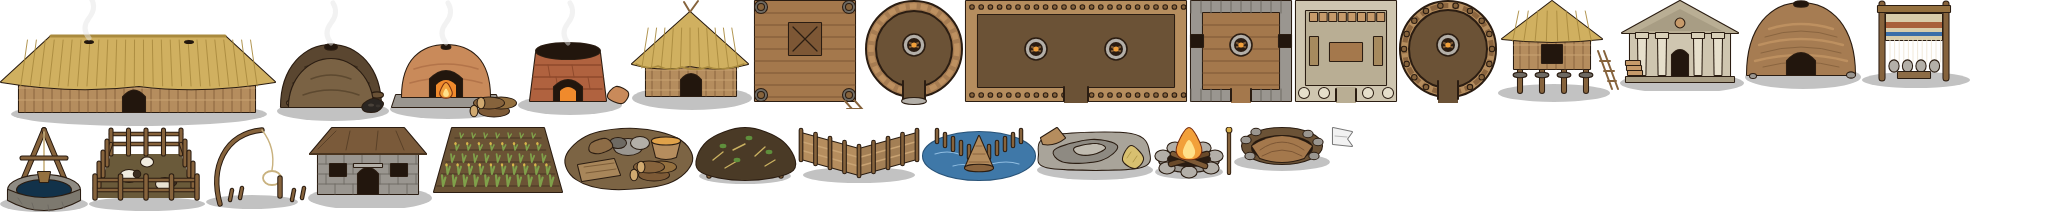
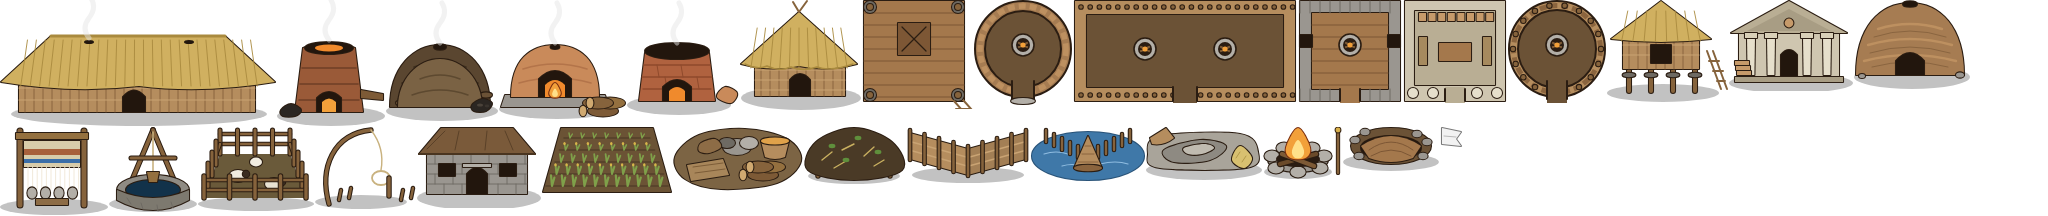
m15: fase 37d — smelting, el horno de fundicion y el primer lingote
Nodo smelting (native_copper + charcoal + kiln), estacion furnace, item copper y
receta smelt_copper (3 mineral + 2 carbon -> 2 lingotes, smith). El planificador
levanta el horno solo; wantedOreKinds manda al herrero a la veta. La sub-red Metal
se abre en 37e (una red de un nodo es una puerta sin contenido). Arte: horno e
icono. Medido: metal.test.ts 36 pruebas; cohorte diferida.

diff --git a/src/sim/__tests__/metal.test.ts b/src/sim/__tests__/metal.test.ts
@@ -464,3 +464,84 @@ describe('mining', () => {
     expect(wantedOreKinds(miner)).toEqual([]);
   });
 });
+
+describe('smelting and the furnace', () => {
+  it('needs native copper, charcoal and the kiln, and is a device of the Chalcolithic', () => {
+    const def = TECH.smelting;
+    expect(def.requires).toEqual(['native_copper', 'charcoal', 'kiln']);
+    expect(def.kind).toBe('device');
+    expect(def.domain).toBe('metal');
+    for (const required of def.requires) {
+      expect(ageIndex(def.age)).toBeGreaterThanOrEqual(ageIndex(TECH[required].age));
+    }
+  });
+
+  it('is a station only the knowing may raise, built of flint and clay like the kiln', () => {
+    const furnace = BUILDINGS.furnace!;
+    expect(isStation(furnace)).toBe(true);
+    expect(furnace.requiresTech).toBe('smelting');
+    expect(furnace.storage).toBe(0);
+    expect(Object.keys(furnace.materials).sort()).toEqual(['flint', 'mud']);
+    // More than the kiln it is the pivot from.
+    expect(furnace.workTicks).toBeGreaterThan(BUILDINGS.kiln!.workTicks);
+  });
+
+  it('turns ore and charcoal into ingots at the furnace and nowhere else', () => {
+    const recipe = RECIPES.smelt_copper!;
+    expect(recipe.station).toBe('furnace');
+    expect(recipe.tech).toBe('smelting');
+    expect(recipe.skill).toBe('smith');
+    expect(recipe.ingredients).toEqual({ copper_ore: 3, charcoal: 2 });
+    expect(recipe.output).toEqual({ copper: 2 });
+    expect(ITEMS.copper!.baseValue).toBeGreaterThan(ITEMS.copper_ore!.baseValue);
+  });
+
+  it('sends the smith to the seam, and a smith with enough ore nowhere', () => {
+    const smith = adult('smith');
+    teach(smith, 'mining', 'smelting');
+    expect(wantedOreKinds(smith)).toContain('copper_ore');
+    smith.inventory.add('copper_ore', 3);
+    expect(wantedOreKinds(smith)).not.toContain('copper_ore');
+    // Four ingots are all the smith keeps; past that there is nothing to want.
+    smith.inventory.remove('copper_ore', 3);
+    smith.inventory.add('copper', 4);
+    expect(wantedOreKinds(smith)).not.toContain('copper_ore');
+    // Without the technique to dig it, the seam is not wanted however much is needed.
+    const heir = adult('heir');
+    teach(heir, 'smelting');
+    expect(wantedOreKinds(heir)).not.toContain('copper_ore');
+  });
+
+  it('smelts at the furnace end to end', () => {
+    const sim = worldKnowing(['firemaking', 'carpentry', 'charcoal', 'smelting']);
+    const person = sim.livingPeople()[0]!;
+    settle(person);
+    person.inventory.add('copper_ore', 3);
+    person.inventory.add('charcoal', 2);
+    const furnace = stationNear(sim, person, 'furnace');
+    expect(sim.order(person, 'craft', { recipeId: 'smelt_copper', buildingId: furnace.id })).toBe(true);
+    for (let i = 0; i < 2000 && person.inventory.count('copper') === 0; i++) {
+      person.needs.thirst = 0;
+      person.needs.hunger = 0;
+      sim.step();
+    }
+    expect(person.inventory.count('copper')).toBe(2);
+    expect(person.inventory.count('copper_ore')).toBe(0);
+    expect(person.inventory.count('charcoal')).toBe(0);
+  });
+
+  it('is abandoned without the charcoal, with the reason named', () => {
+    const sim = worldKnowing(['firemaking', 'carpentry', 'charcoal', 'smelting']);
+    const person = sim.livingPeople()[0]!;
+    settle(person);
+    person.inventory.add('copper_ore', 3);
+    const furnace = stationNear(sim, person, 'furnace');
+    // The order is taken and the work abandons on the first tick, with the
+    // reason a `craft` always gives for a pack that lacks the parts.
+    expect(sim.order(person, 'craft', { recipeId: 'smelt_copper', buildingId: furnace.id })).toBe(true);
+    sim.interruptions.length = 0;
+    for (let i = 0; i < 20 && sim.interruptions.length === 0; i++) sim.step();
+    expect(sim.interruptions.map(n => n.reason)).toContain('lack_materials');
+    expect(person.inventory.count('copper')).toBe(0);
+  });
+});

diff --git a/src/sim/knowledge/Tech.ts b/src/sim/knowledge/Tech.ts
@@ -164,6 +164,9 @@ export const TECHS = [
   'native_copper',
   // Following a seam into the hill: the ore that nobody finds lying about.
   'mining',
+  // Metal out of rock: the furnace, which is the whole difference between
+  // finding copper and having it.
+  'smelting',
 ] as const;
 export type Tech = (typeof TECHS)[number];
 
@@ -2088,6 +2091,31 @@ export const TECH: Record<Tech, TechDef> = {
       'More from every flint outcrop, and the ore a hill keeps inside it: ' +
       'what nobody can find lying about, somebody who digs can.',
   },
+  // M15 phase 37 (M8.3). Copper out of green rock: ore and charcoal in a
+  // clay-lined furnace, a heat no hearth reaches, and a metal that was never
+  // lying anywhere. The pivot the kiln was waiting for: the same held heat,
+  // pointed at ore instead of clay. A device: the furnace is the thing built.
+  smelting: {
+    id: 'smelting', label: 'Smelting', domain: 'metal',
+    age: 'chalcolithic', firstKnown: 'about 5000 BC',
+    kind: 'device',
+    requires: ['native_copper', 'charcoal', 'kiln'], difficulty: 0.7, skill: 'smith',
+    prototype: { flint: 4, mud: 4 }, maxRefinement: 2,
+    sparks: [
+      { needs: [{ kind: 'knows', tech: 'kiln' }, { kind: 'knows', tech: 'charcoal' },
+                { kind: 'holding', item: 'copper_ore' }],
+        weight: 1.0, story: 'dropped green rock into a charcoal fire in the kiln and found a bead of metal in the ash' },
+      { needs: [{ kind: 'knows', tech: 'native_copper' }, { kind: 'knows', tech: 'kiln' },
+                { kind: 'holding', item: 'charcoal' }],
+        weight: 0.6, story: 'wondered if a heat that fired clay would run a nugget like wax' },
+      { needs: [{ kind: 'knows', tech: 'charcoal' }, { kind: 'knows', tech: 'kiln' },
+                { kind: 'doing', action: 'craft' }],
+        weight: 0.4, story: 'banked charcoal in the kiln for the heat of it and left a pot of green stones beside it' },
+    ],
+    description:
+      'Ore and charcoal in a clay-lined furnace, hotter than any hearth. ' +
+      'Metal that was never lying anywhere: ingots of copper out of green rock.',
+  },
 };
 
 /** The web a technology lives in (`'main'` unless its entry says otherwise). */
@@ -2425,6 +2453,10 @@ export const TECH_EFFECTS: Record<Tech, TechEffect> = {
   mining: {
     summary: 'More from every flint outcrop, and the right to take ore out of a hill at all.',
     site: 'Tech.forageYieldFactor (flint and ore); Ore.canWork, read by ActionSystem.doHarvest, Simulation.order and ActionCatalog.nodeActions',
+  },
+  smelting: {
+    summary: 'A furnace, and copper ingots out of ore and charcoal: the metal that is never found lying about.',
+    site: 'BUILDINGS.furnace and RECIPES.smelt_copper; Ore.wantedOreKinds, which sends the smith to the seam',
   },
 };
 

diff --git a/src/i18n/es/tech.ts b/src/i18n/es/tech.ts
@@ -426,4 +426,10 @@ export const ES_TECH: Record<string, string> = {
   "dug under a ledge for a better stone and found the hill was worth opening": "cavó bajo una cornisa buscando una piedra mejor y vio que el cerro merecía abrirse",
   "cut a footing out of a rock face and saw how much came away in one piece": "talló un cimiento en una pared de roca y vio cuánto se desprendía de una pieza",
   "More from every flint outcrop, and the right to take ore out of a hill at all.": "Más de cada afloramiento de sílex, y poder sacar mineral de un cerro.",
+  "Smelting": "Fundición",
+  "Ore and charcoal in a clay-lined furnace, hotter than any hearth. Metal that was never lying anywhere: ingots of copper out of green rock.": "Mineral y carbón en un horno forrado de arcilla, más caliente que cualquier hogar. Metal que nunca estuvo tirado en ninguna parte: lingotes de cobre sacados de piedra verde.",
+  "dropped green rock into a charcoal fire in the kiln and found a bead of metal in the ash": "echó piedra verde a un fuego de carbón en el horno y encontró una cuenta de metal en la ceniza",
+  "wondered if a heat that fired clay would run a nugget like wax": "se preguntó si un calor que cocía arcilla fundiría una pepita como cera",
+  "banked charcoal in the kiln for the heat of it and left a pot of green stones beside it": "amontonó carbón en el horno por el calor y dejó al lado una vasija de piedras verdes",
+  "A furnace, and copper ingots out of ore and charcoal: the metal that is never found lying about.": "Un horno de fundición, y lingotes de cobre sacados de mineral y carbón: el metal que nunca se encuentra tirado.",
 };

diff --git a/art/src/buildings/buildings.ts b/art/src/buildings/buildings.ts
@@ -208,6 +208,16 @@ export const BUILDINGS: BuildingArt[] = [
     + ell(72, 83, 22, 8, '#2a1c12')
     + limb([[54, 88], [90, 78]], 4.4, '#6a4a2a', B.L) + limb([[56, 78], [88, 90]], 4.4, '#7d5a36', B.L)
     + flame(72, 82, 1.5)],
+  // M15 phase 37: a clay shaft furnace with a tapping hole and the glow of the charge.
+  ['furnace', 'Horno de fundición', 'smelting', 144, () =>
+    gShadow(74, 102, 54, 10)
+    + shape('M38,98L46,34Q72,24 98,34L106,98Z', '#9a5a38', B.L)
+    + stroke('M42,86L102,86M43,70L101,70M45,54L99,54', '#6f3f26', 1.6)
+    + ell(72, 34, 24, 6, B.dark, B.L) + ell(72, 34, 14, 3.4, '#f08a2c')
+    + shape('M60,98L60,84Q72,72 84,84L84,98Z', B.dark, B.L) + shape('M65,98L65,88Q72,81 79,88L79,98Z', '#f2a03a')
+    + shape(poly([[104, 76], [126, 80], [126, 86], [104, 84]]), '#7d5a36', B.L)
+    + smoke(72, 26)
+    + shape(smooth([[24, 96], [34, 90], [44, 96], [38, 102], [26, 102]]), '#2b2622', B.L)],
   // M15 phase 37: a heap of deadwood sealed under turf, a vent smoking at the top.
   ['charcoal_pit', 'Carbonera', 'charcoal', 144, () =>
     gShadow(74, 102, 56, 10)

diff --git a/src/sim/entities/Building.ts b/src/sim/entities/Building.ts
@@ -663,6 +663,25 @@ export const BUILDINGS: Record<string, BuildingDef> = {
   // larder scorer would fill it with berries), a 3x3 footprint so that
   // `reachBuilding`'s containment test can be met. Built of what a band can
   // fetch for a site: deadwood for the stack and clay for the turf seal.
+  // `furnace`: the kiln's bigger, hotter cousin. Flint and clay as the kiln is,
+  // and more of both, because it has to hold a heat that melts stone. A station
+  // on the quern's terms (no storage; 3x3).
+  furnace: {
+    id: 'furnace',
+    label: 'Furnace',
+    icon: '\u{1F525}',
+    width: 3, height: 3,
+    materials: { flint: 10, mud: 8 },
+    workTicks: 260,
+    shelter: 0,
+    storage: 0,
+    station: true,
+    requiresTech: 'smelting',
+    description:
+      'A clay-lined shaft fed from the top with ore and charcoal and from ' +
+      'the side with air. The heat is more than a kiln gives, and what runs ' +
+      'out of the bottom is metal.',
+  },
   charcoal_pit: {
     id: 'charcoal_pit',
     label: 'Charcoal pit',

diff --git a/src/sim/entities/Item.ts b/src/sim/entities/Item.ts
@@ -358,6 +358,10 @@ export const ITEMS: Record<string, ItemDef> = {
   // anybody who knows what a furnace does with them. Tin is dearer by far.
   copper_ore: { id: 'copper_ore', label: 'Copper ore', nutrition: 0, spoilTicks: 0, baseValue: 4, class: 'bulky', hand: { perHand: 1, perArms: 4, hands: 1 } },
   tin_ore: { id: 'tin_ore', label: 'Tin ore', nutrition: 0, spoilTicks: 0, baseValue: 9, class: 'bulky', hand: { perHand: 1, perArms: 3, hands: 1 } },
+  // `smelting`'s ingot. Not a tool and not an ornament: it is the stuff of both,
+  // and what `casting` consumes. Worth four times the ore it came from, which is
+  // what makes carrying one a reason to keep it from a thief.
+  copper: { id: 'copper', label: 'Copper', nutrition: 0, spoilTicks: 0, baseValue: 14, class: 'bulky', hand: { perHand: 1, perArms: 3, hands: 1 } },
   charcoal: { id: 'charcoal', label: 'Charcoal', nutrition: 0, spoilTicks: 0, baseValue: 3, class: 'loose', hand: { perHand: 2, perArms: 6, hands: 1 } },
 };
 

diff --git a/src/sim/entities/Recipe.ts b/src/sim/entities/Recipe.ts
@@ -606,6 +606,14 @@ export const RECIPES: Record<string, RecipeDef> = {
     workTicks: 120, ingredients: { sticks: 6 }, output: { charcoal: 3 },
     station: 'charcoal_pit', keep: 4,
   },
+  // `smelting`, at the furnace. Three loads of ore and two of charcoal give two
+  // ingots: the first craft in the game that costs a fuel as well as a material.
+  // `keep: 4` is two runs' worth, and what `casting` will want to spend.
+  smelt_copper: {
+    id: 'smelt_copper', label: 'Smelt copper', icon: '\u{1F525}', tech: 'smelting', skill: 'smith',
+    workTicks: 120, ingredients: { copper_ore: 3, charcoal: 2 }, output: { copper: 2 },
+    station: 'furnace', keep: 4,
+  },
   // `native_copper`: cold-hammered, no fire and no station - which is the whole
   // point of it. The first recipes in the game to practise `smith`, a skill every
   // character has carried since M6b with nothing to improve it. The awl comes

diff --git a/art/src/props/items.ts b/art/src/props/items.ts
@@ -62,6 +62,10 @@ export const ITEMS: ItemArt[] = [
     shape(smooth([[8, 46], [14, 28], [30, 20], [48, 26], [56, 42], [44, 54], [20, 54]]), '#aeb4bb', '#3f444a')
     + [[22, 32], [34, 28], [44, 38], [26, 44], [38, 46]].map(([x, y]) => ell(x!, y!, 3, 2, '#eef1f3', '#69717a')).join('')
     + stroke('M14,44L30,38M34,24L46,30', '#d4d8dc', 1.1)],
+  ['copper', 'Lingote de cobre', 'smelting', () =>
+    shape(poly([[8, 42], [18, 24], [48, 24], [58, 42], [50, 52], [16, 52]]), '#c9803c', '#6b3a14')
+    + shape(poly([[18, 24], [48, 24], [44, 32], [22, 32]]), '#e8b27a', '#6b3a14')
+    + stroke('M18,40L48,40M22,46L44,46', '#a8642a', 1.2)],
   ['charcoal', 'Carbón vegetal', 'charcoal', () =>
     shape(smooth([[10, 44], [22, 30], [36, 34], [40, 48], [26, 54]]), '#2f2b28', STONE_D)
     + shape(smooth([[32, 30], [46, 18], [58, 28], [52, 42], [38, 42]]), '#3a3532', STONE_D)

diff --git a/src/i18n/es/data.ts b/src/i18n/es/data.ts
@@ -277,4 +277,8 @@ export const ES_DATA: Record<string, string> = {
   "Copper nugget": "Pepita de cobre",
   "Copper awl": "Punzón de cobre",
   "Copper pendant": "Colgante de cobre",
+  "Furnace": "Horno de fundición",
+  "A clay-lined shaft fed from the top with ore and charcoal and from the side with air. The heat is more than a kiln gives, and what runs out of the bottom is metal.": "Un pozo forrado de arcilla, alimentado por arriba con mineral y carbón y por el lado con aire. El calor supera al de un horno de alfarero, y lo que sale por abajo es metal.",
+  "Smelt copper": "Fundir cobre",
+  "Copper": "Cobre",
 };

diff --git a/docs/changelog.md b/docs/changelog.md
@@ -1,3 +1,7 @@
+## 2026-10-07 — M15 fase 37d: `smelting`, el horno de fundición y el primer lingote
+
+Por qué: el cobre que nadie encuentra tirado. Nodo `smelting` (requiere `native_copper`, `charcoal` y `kiln`), estación `furnace` (sílex y barro, más larga que el horno de alfarero), ítem `copper` y receta `smelt_copper` (3 mineral + 2 carbón → 2 lingotes, con `smith`). Lectores: el planificador de bandas levanta el horno solo, `wantedOreKinds` manda al herrero a la veta (y no a quien no sabe minar), y el lingote tiene `baseValue` para regalo, robo y trueque hasta que `casting` lo consuma. La sub-red Metal sigue sin declararse (una red de un nodo es una puerta sin contenido); se abre en 37e. Tests: `metal.test.ts` (36 en total, uno de punta a punta). Medido: suite rápida verde; cohorte diferida. Detalle en [m15_phase37_metal.md](m15_phase37_metal.md).
+
 ## 2026-10-07 — M15 fase 37c: `mining`, la mina es un nodo y no un agujero
 
 Por qué: sin minería no hay más metal que el que se encuentra tirado. Nodo `mining` y dos clases de nodo, `copper_ore` (cuatro vetas en la isla clásica) y `tin_ore` (**una**: el estaño escaso es el motor histórico del comercio a distancia). No se excava nada, así que no hace falta la reparación de regiones. La puerta es `ResourceDef.requiresTech` + `Ore.canWork`, y se lee en tres sitios, cada uno con su motivo: `doHarvest` abandona con `cannot_mine`, `Simulation.order` rechaza antes de caminar y `ActionCatalog.nodeActions` deshabilita el verbo y dice «No sabes extraer mineral» (regla del propietario: si la simulación rechaza algo, la interfaz lo dice). `mining` también da más sílex de cada afloramiento (×1,25), su único lector hasta que `smelting` consuma el mineral. Con mapa, cada veta solo donde la región tiene ese metal. Tests: `metal.test.ts` (29 en total). Medido: `sim:check` `band` igual que la base. Cohorte diferida. Detalle en [m15_phase37_metal.md](m15_phase37_metal.md).

diff --git a/docs/m15_phase37_metal.md b/docs/m15_phase37_metal.md
@@ -141,3 +141,13 @@ con motivo, el menú (deshabilitado con razón / ofrecido), extraer de punta a
 punta, y el saber perdido a mitad de camino (`cannot_mine` llega a
 `sim.interruptions`). Arte: dos iconos y los nodos del `Renderer` (afloramiento
 gris con vetas verdes, o claras para el estaño).
+
+## 37d — `smelting` y el horno de fundición
+
+**Qué hay.** El nodo `smelting` (dispositivo, metal, Calcolítico, «hacia el 5000 a. C.», requiere `native_copper`, `charcoal` y `kiln`: el calor sostenido del horno de alfarero apuntado al mineral en lugar de a la arcilla), la estación `furnace` (3×3, sin almacén, de sílex 10 y barro 8, más larga de levantar que el horno de alfarero), el ítem `copper` (lingote, `baseValue` 14) y la receta `smelt_copper`: tres de mineral y dos de carbón dan dos lingotes, en el horno, con `smith`, `keep: 4`.
+
+**Quién lo lee.** El horno lo planifica solo `BandSystem` (cualquier banda con un miembro que pueda hacer algo en una estación que no tiene); `Ore.wantedOreKinds` manda al herrero a la veta mientras tenga menos lingotes de los que guarda y menos mineral del que pide la receta, y no manda a quien sabe fundir pero no sabe minar (prueba). El lingote es la materia de `casting` (37f) y, mientras tanto, un bien con `baseValue`: regalo, robo y, desde la fase 36, trueque.
+
+**Sub-red Metal.** Sigue sin declararse: una red de un solo nodo es una puerta declarada antes que su contenido y `tech.test.ts` la rechaza. Se abre en 37e, con `bellows`, el segundo nodo que la llena.
+
+**Pruebas.** `metal.test.ts` (+6): declaración, estación, receta, `wantedOreKinds`, fundir de punta a punta (3 mineral + 2 carbón → 2 lingotes en el horno) y la receta sin carbón se abandona con `lack_materials`. Arte: `b/furnace/ext` e `item/copper`.

diff --git a/docs/m15_plan.md b/docs/m15_plan.md
@@ -3469,6 +3469,8 @@ en `doHarvest`, en la orden y en el menú, cada una con su motivo. Más sílex d
 cada afloramiento. Pasada y stream de 37b; con mapa, donde la región tiene ese
 metal.
 
+**Avance del 2026-10-07 (37d, `smelting`).** El horno de fundición (`furnace`, estación) y la receta `smelt_copper` (tres de mineral y dos de carbón → dos lingotes de `copper`). El herrero va solo a la veta (`wantedOreKinds`) y la banda levanta sola el horno. La sub-red Metal se abre en 37e.
+
 ---
 
 # Bloque IX — Civilización y hierro (M14 bloque VIII; M8.4)
